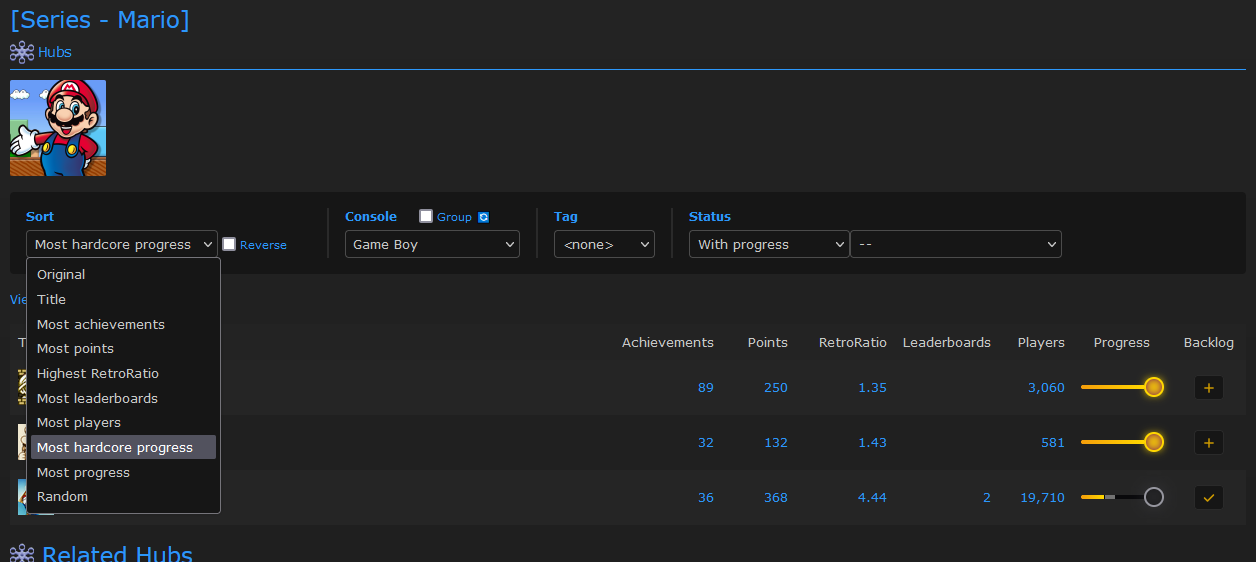
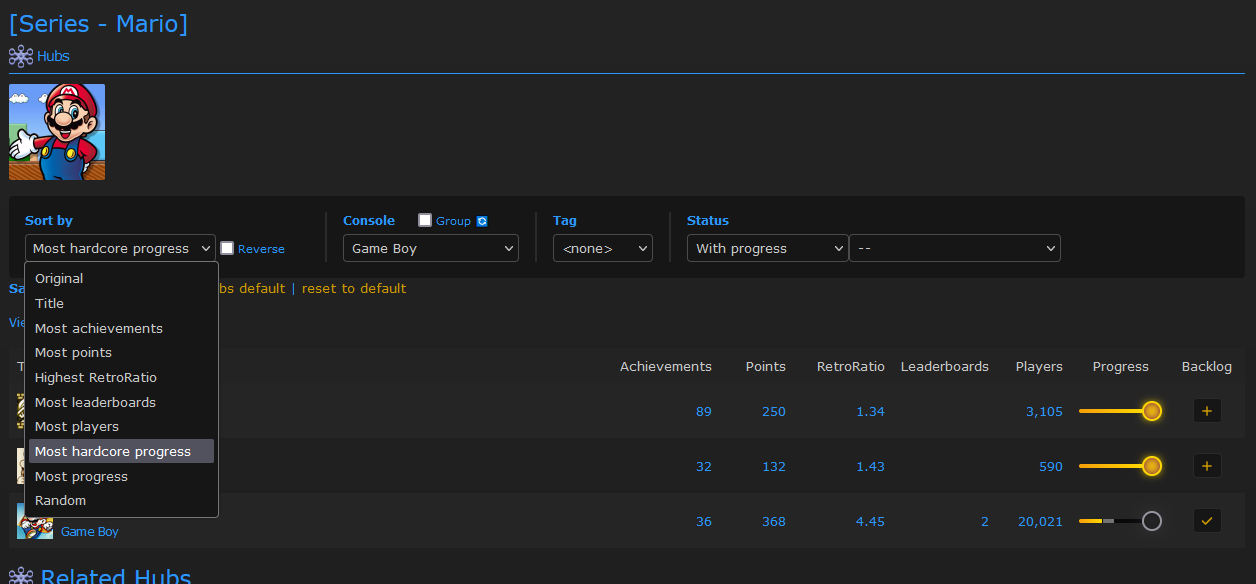
EnhancedHubSort: possibility to save sort and filter params by page or by category + possibility to reset saved filters on Settings page + updated doc

diff --git a/RA_EnhancedHubSort.user.js b/RA_EnhancedHubSort.user.js
@@ -8,9 +8,12 @@
 // @match        https://retroachievements.org/game/*
 // @match        https://retroachievements.org/system/*/games*
 // @match        https://retroachievements.org/user/*/developer/sets*
+// @match        https://retroachievements.org/controlpanel.php*
 // @run-at       document-start
 // @icon         https://static.retroachievements.org/assets/images/favicon.webp
-// @grant        none
+// @grant        GM_setValue
+// @grant        GM_getValue
+// @grant        GM_deleteValue
 // ==/UserScript==
 
 const pageName = window.location.pathname.split('/')[1];
@@ -149,7 +152,8 @@ const Status2 = {
     }
 }
 
-const sortBlockHTML = `<div class="embedded p-4 my-4 w-full"><div class="grid sm:flex sm:divide-x-2 divide-embed-highlight">
+const sortBlockHTML = `<div class="my-4">
+<div class="embedded p-4 w-full"><div class="grid sm:flex sm:divide-x-2 divide-embed-highlight">
   <div class="grid gap-y-1 sm:pr-[40px]">
     <label class="font-bold text-xs">Sort by</label>
     <span class="text-2xs">
@@ -170,12 +174,14 @@ const sortBlockHTML = `<div class="embedded p-4 my-4 w-full"><div class="grid sm
   </div>
   <div class="grid gap-y-1 sm:px-4">
     <label class="font-bold text-xs">Status</label>
-      <div class="flex">
+    <div class="flex">
       <select id="statusSelect1"></select>
 	  <select id="statusSelect2"></select>
-</div>
+    </div>
   </div>
-</div></div>`;
+</div></div>
+<p><b>Save filters for:</b> <a id="savePageFilters" style="cursor:pointer;">this page</a> | <a id="saveDefaultFilters" style="cursor:pointer;">default</a> | <a id="resetHubFilters" title="delete saved filters for this page and reset to default ones" style="cursor:pointer;">reset to default</a></p>
+</div>`;
 
 const Compares = {
     reverse: c => (a, b) => c(b, a),
@@ -192,6 +198,7 @@ function getElementByXpath(root, xpath) {
 function createOption(value, labelTxt, select, title = null) {
     const option = document.createElement('option');
     option.value = value;
+    option.setAttribute('name', value);
     if (labelTxt) {
         option.innerHTML = labelTxt;
     } else {
@@ -217,6 +224,42 @@ function setHasCheevosParam(value) {
     if (pageName == 'game') value = (value == 'yes') ? 'true' : 'false';
     params.set('filter[populated]', value);
     window.location.search = params;
+}
+
+const defaultFilters = {
+    "sort": "original",
+    "reverse": false,
+    "tag": "all",
+    "status1": "all",
+    "status2": "all"
+};
+function loadFilters() {
+    if (localStorage.hubFilters) {
+        const filters = JSON.parse(localStorage.hubFilters);
+        localStorage.removeItem('hubFilters');
+        return filters;
+    }
+    const filtersArrayName = (pageName == 'system') ? 'consoleFilters' : (pageName == 'user') ? 'devFilters' : 'hubFilters';
+    const filtersArray = GM_getValue(filtersArrayName, {});
+    const filterId = window.location.pathname.split('/')[2];
+    return filtersArray[filterId] ?? filtersArray[''];
+}
+function saveFilters(filters, isDefault) {
+    const filtersArrayName = (pageName == 'system') ? 'consoleFilters' : (pageName == 'user') ? 'devFilters' : 'hubFilters';
+    const filtersArray = GM_getValue(filtersArrayName, {});
+    const filterId = isDefault ? '' : window.location.pathname.split('/')[2];
+    filtersArray[filterId] = filters;
+    GM_setValue(filtersArrayName, filtersArray);
+}
+function resetPageFilters() {
+    const filtersArrayName = (pageName == 'system') ? 'consoleFilters' : (pageName == 'user') ? 'devFilters' : 'hubFilters';
+    const filtersArray = GM_getValue(filtersArrayName, {});
+    const filterId = window.location.pathname.split('/')[2];
+    if (filtersArray[filterId]) {
+        delete filtersArray[filterId];
+        GM_setValue(filtersArrayName, filtersArray);
+    }
+    return filtersArray[''] ?? defaultFilters;
 }
 
 function customize() {
@@ -345,14 +388,16 @@ function customize() {
     const updateList = gameTable => {
         // slower than using 'hidden' class, but allows to keep alternating row colors
         let hasVisible = false;
-        gameTable.rowsData.reverse().forEach(row => {
+        // go backwards and add first so that the footer row remains last if it exists
+        for (let i = gameTable.rowsData.length - 1; i >= 0; i--) {
+            const row = gameTable.rowsData[i];
             if (row.visible) {
                 hasVisible = true;
                 gameTable.tbody.prepend(row.element);
             } else {
                 row.element.remove();
             }
-        });
+        };
         const classFunc = hasVisible ? 'remove' : 'add';
         const table = gameTable.tbody.parentElement;
         table.classList[classFunc]('hidden');
@@ -391,7 +436,7 @@ function customize() {
     const optionChecks = []; // array of {option, func(row)}
     const checkVisibilities = () => {
         gameTables.forEach(gameTable => {
-            gameTable.rowsData.forEach(row => { row.visible = visibilityFunctions.every(f => f(row)) });
+            gameTable.rowsData.forEach(row => { row.visible = visibilityFunctions.every(f => f(row));});
             updateList(gameTable);
         });
         const visibleRows = gameTables.flatMap(t => t.rowsData.filter(r => r.visible));
@@ -414,7 +459,7 @@ function customize() {
     statusSelect1.addEventListener('change', () => {
         selectedStatus1 = Status1[statusSelect1.selectedOptions[0].value];
         checkVisibilities();
-        [...statusSelect2.options].forEach((opt, idx) => { opt.disabled = (idx < statusSelect1.selectedIndex); });
+        [...statusSelect2.options].forEach((opt, idx) => { opt.disabled = (opt.dataset.disabled || idx < statusSelect1.selectedIndex); });
     });
     let selectedStatus2 = Status2.all;
     [...statusSelect2.options].find(o => o.value == 'all').selected = true;
@@ -422,13 +467,28 @@ function customize() {
     statusSelect2.addEventListener('change', () => {
         selectedStatus2 = Status2[statusSelect2.selectedOptions[0].value];
         checkVisibilities();
-        [...statusSelect1.options].forEach((opt, idx) => { opt.disabled = (idx > statusSelect2.selectedIndex); });
+        [...statusSelect1.options].forEach((opt, idx) => { opt.disabled = (opt.dataset.disabled || idx > statusSelect2.selectedIndex); });
     });
 
+    const createFiltersObj = () => {
+        const res = {
+            sort: sortSelect.selectedOptions[0].value,
+            reverse: descCheckbox.checked,
+            tag: tagSelect.selectedOptions[0].value,
+            status1: statusSelect1.selectedOptions[0].value,
+            status2: statusSelect2.selectedOptions[0].value
+        };
+        if (consoleSelect.closest('body')) res.console = consoleSelect.selectedOptions[0].value;
+        return res;
+    };
+
+    // restrictions
     if (pageName == 'user') {
         // developper sets
         statusSelect1.options[1].classList.add('hidden');
+        statusSelect1.options[1].dataset.disabled = true;
         statusSelect2.options[0].classList.add('hidden');
+        statusSelect2.options[0].dataset.disabled = true;
     } else {
         const hasCheevosParam = (() => {
             const hasCheevosRadio = origSortDiv.querySelector('input[name="radio-populated"][checked]');
@@ -437,27 +497,127 @@ function customize() {
         })();
         let reloadingStatusSelect;
         if (hasCheevosParam == 'yes') {
-            statusSelect1.selectedIndex = 1;
             reloadingStatusSelect = statusSelect1;
+            if (statusSelect1.selectedOptions[0].value == 'all') statusSelect1.selectedIndex++;
         } else if (hasCheevosParam == 'no') {
-            statusSelect2.selectedIndex = 0;
             reloadingStatusSelect = statusSelect2;
+            statusSelect1.namedItem('all').selected = true;
+            statusSelect2.namedItem('without-ach').selected = true;
+            [...statusSelect1.options].forEach(opt => {
+                if (opt.value != 'all') {
+                    opt.disabled = true;
+                    opt.dataset.disabled = true;
+                }
+            });
+            [...statusSelect2.options].forEach(opt => {
+                if (opt.value != 'all' && opt.value != 'without-ach') {
+                    opt.disabled = true;
+                    opt.dataset.disabled = true;
+                }
+            });
         }
         if (reloadingStatusSelect) {
-            reloadingStatusSelect.dispatchEvent(new Event('change'));
-            const allOption = reloadingStatusSelect.querySelector('option[value="all"]');
-            allOption.innerText += ' 🔄'
+            const allOption = reloadingStatusSelect.namedItem('all');
+            allOption.innerText += ' 🔄';
             allOption.title += ' (reloads the page)';
+            reloadingStatusSelect.dispatchEvent(new Event('change'));
             reloadingStatusSelect.addEventListener('change', () => {
                 if (reloadingStatusSelect.selectedOptions[0].value == 'all') {
+                    localStorage.hubFilters = JSON.stringify(createFiltersObj());
                     setHasCheevosParam('all');
                 }
             });
         }
     }
+
+    // loads filters
+    const select = (selectElmt, value) => {
+        const isAvailable = opt => !opt.dataset.disabled && !opt.innerText.endsWith('🔄');
+        const item = selectElmt.namedItem(value);
+        if (item && isAvailable(item)) {
+            item.selected = true;
+        } else if (value != 'all') {
+            select(selectElmt, 'all');
+        } else {
+            [...selectElmt.options].find(isAvailable).selected = true;
+        }
+        selectElmt.dispatchEvent(new Event('change'));
+    }
+    const updateFilters = filters => {
+        select(sortSelect, filters.sort);
+        descCheckbox.checked = filters.reverse;
+        if (filters.console && !consoleSelect.disabled) {
+            selectedConsole = filters.console;
+            select(consoleSelect, filters.console);
+        }
+        selectedTag = filters.tag;
+        select(tagSelect, filters.tag);
+        selectedStatus1 = Status1[filters.status1];
+        select(statusSelect1, filters.status1);
+        selectedStatus2 = Status2[filters.status2];
+        select(statusSelect2, filters.status2);
+        updateSort();
+    };
+    const savedFilters = loadFilters();
+    if (savedFilters) updateFilters(savedFilters);
+
+    // handling save
+    const savePageLink = document.getElementById('savePageFilters');
+    savePageLink.addEventListener('click', () => saveFilters(createFiltersObj(), false));
+    const saveDefaultLink = document.getElementById('saveDefaultFilters');
+    saveDefaultLink.innerText = ((pageName == 'system') ? 'consoles' : (pageName == 'user') ? 'developers' : 'hubs') + ' ' + saveDefaultLink.innerText;
+    saveDefaultLink.addEventListener('click', () => saveFilters(createFiltersObj(), true));
+    const resetFiltersLink = document.getElementById('resetHubFilters');
+    resetFiltersLink.addEventListener('click', () => updateFilters(resetPageFilters()));
+    [savePageLink, saveDefaultLink, resetFiltersLink].forEach(link => link.addEventListener('click', event => {
+        const link = event.target;
+        link.style.cursor = 'grabbing';
+        setTimeout(() => { link.style.cursor = 'pointer'; }, 500);
+    }));
+}
+
+const settingsHtml = `<div class="component">
+  <h4>Enhanced Hub Sort</h4>
+  <table class="table-highlight"><tbody>
+    <tr>
+      <td>Reset saved filters</td>
+      <td>
+        <button id="resetHubFilters" class="btn">Hubs</button> <button id="resetConsoleFilters" class="btn">Consoles</button> <button id="resetDevFilters" class="btn">Developers</button>
+      </td>
+    </tr>
+  </tbody></table>
+</div>`;
+
+function settingsPage() {
+    // HTML creation
+    const settingsDiv = getElementByXpath(document, '//div[h3[text()="Settings"]]');
+    if (!settingsDiv) return;
+    const mainDiv = document.createElement('div');
+    settingsDiv.insertAdjacentElement('afterend', mainDiv);
+    mainDiv.outerHTML = settingsHtml;
+
+    //Reset butons for saved filters
+    const addResetBehavior = (buttonId, filterId) => {
+        const button = document.getElementById(buttonId);
+        if (GM_getValue(filterId, null)) {
+            button.addEventListener('click', () => {
+                GM_deleteValue(filterId);
+                button.disabled = true;
+            });
+        } else {
+            button.disabled = true;
+        }
+    };
+    addResetBehavior('resetHubFilters', 'hubFilters');
+    addResetBehavior('resetConsoleFilters', 'consoleFilters');
+    addResetBehavior('resetDevFilters', 'devFilters');
 }
 
 document.addEventListener("DOMContentLoaded", () => {
+    if (pageName == 'controlpanel.php') {
+        settingsPage();
+        return;
+    }
     if (pageName == 'game') {
         const consoleName = document.querySelector('h1 div span')?.innerText?.trim();
         if (consoleName && consoleName !== 'Hubs') return;

diff --git a/README.md b/README.md
@@ -158,6 +158,14 @@ Modifies the sorting of entries on a Hub page (including consoles games lists) a
 
 7. The game count is updated when sorting (and added is absent)
 
+8. Possibility to save the sort and filter options for the current page or for the category (hubs, consoles or developer sets).
+   
+   ![hub sort with status](/assets/EnhancedHubSort_save.png)
+   
+   All filters for a category (default and page specific) can be deleted with a button on the *Settings* page.
+   
+   ![hub sort with status](/assets/EnhancedHubSort_settings_reset.png)
+
 ## RA_ReorderAwardsHelper
 
 Allows to do some automatic sorting on *Reorder Site Awards* page.
